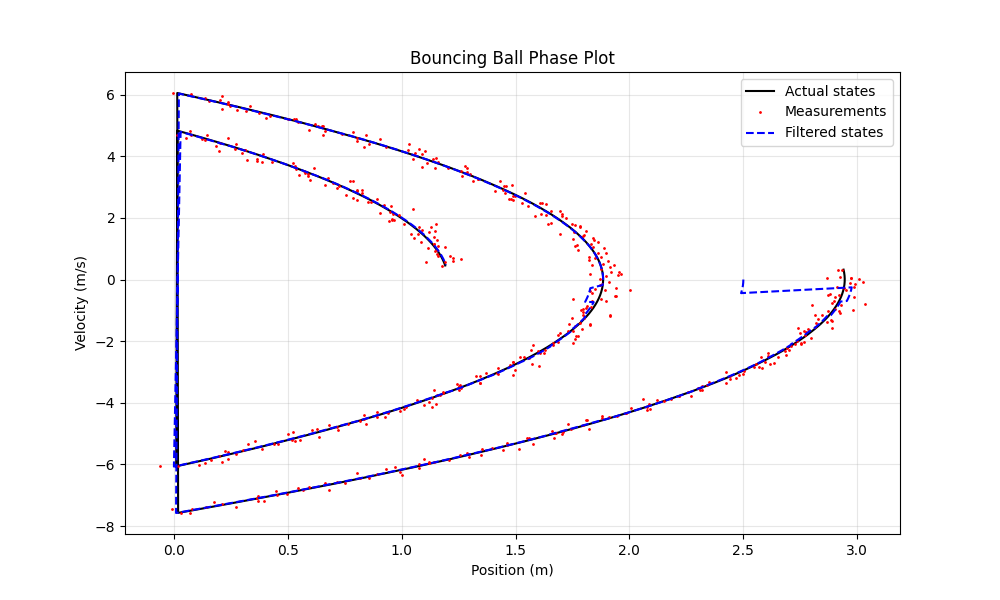
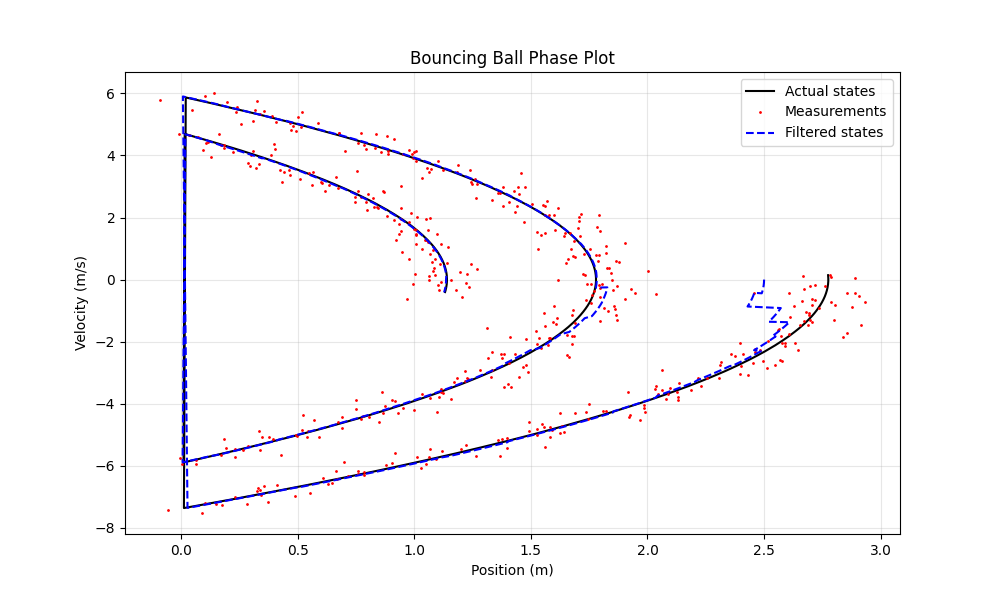
Updating bouncing ball example to have more noise and remove prints

diff --git a/scripts/bouncing_ball_hybrid_system.py b/scripts/bouncing_ball_hybrid_system.py
@@ -127,7 +127,7 @@ dynamics, resets, guards = symbolic_dynamics()
 n_states = 2
 n_inputs = 1
 W_global = 0.01 * np.eye(n_inputs)
-V_global = 0.0025 * np.eye(n_states)
+V_global = 0.01 * np.eye(n_states)
 noise_matrices = {
     "I": {"W": W_global, "V": V_global},
     "J": {"W": W_global, "V": V_global},
@@ -197,10 +197,8 @@ for time_idx in range(1, n_simulate_timesteps):
     actual_states[time_idx, :] = hybrid_simulator.get_state()
     measurements[time_idx - 1, :] = hybrid_simulator.get_measurement(measurement_noise_flag=True)
     skf.predict(timesteps[time_idx], zero_input)
-    print(f"idx: {time_idx}, Prior mode: ", skf._current_mode)
     if time_idx % posterior_update_frequency == 0:
         _, _ = skf.update(timesteps[time_idx], zero_input, measurements[time_idx - 1, :])
-        print(f"idx: {time_idx}, Posterior: ", skf._current_mode)
     filtered_states[time_idx, :] = skf.current_state
     mode_list.append(hybrid_simulator.current_mode)
 

diff --git a/src/hybrid_tools/hybrid_helper_functions.py b/src/hybrid_tools/hybrid_helper_functions.py
@@ -39,8 +39,6 @@ def solve_ivp_guard_funcs(guards_dict, mode, inputs, dt, parameters):
             def guard(t, states, v=val):
                 return v["g"](states, inputs, dt, parameters).flatten()[0]
 
-            guard.terminal = True
-            guard.direction = -1
             guards.append(guard)
             new_modes.append(key)
     return guards, new_modes
